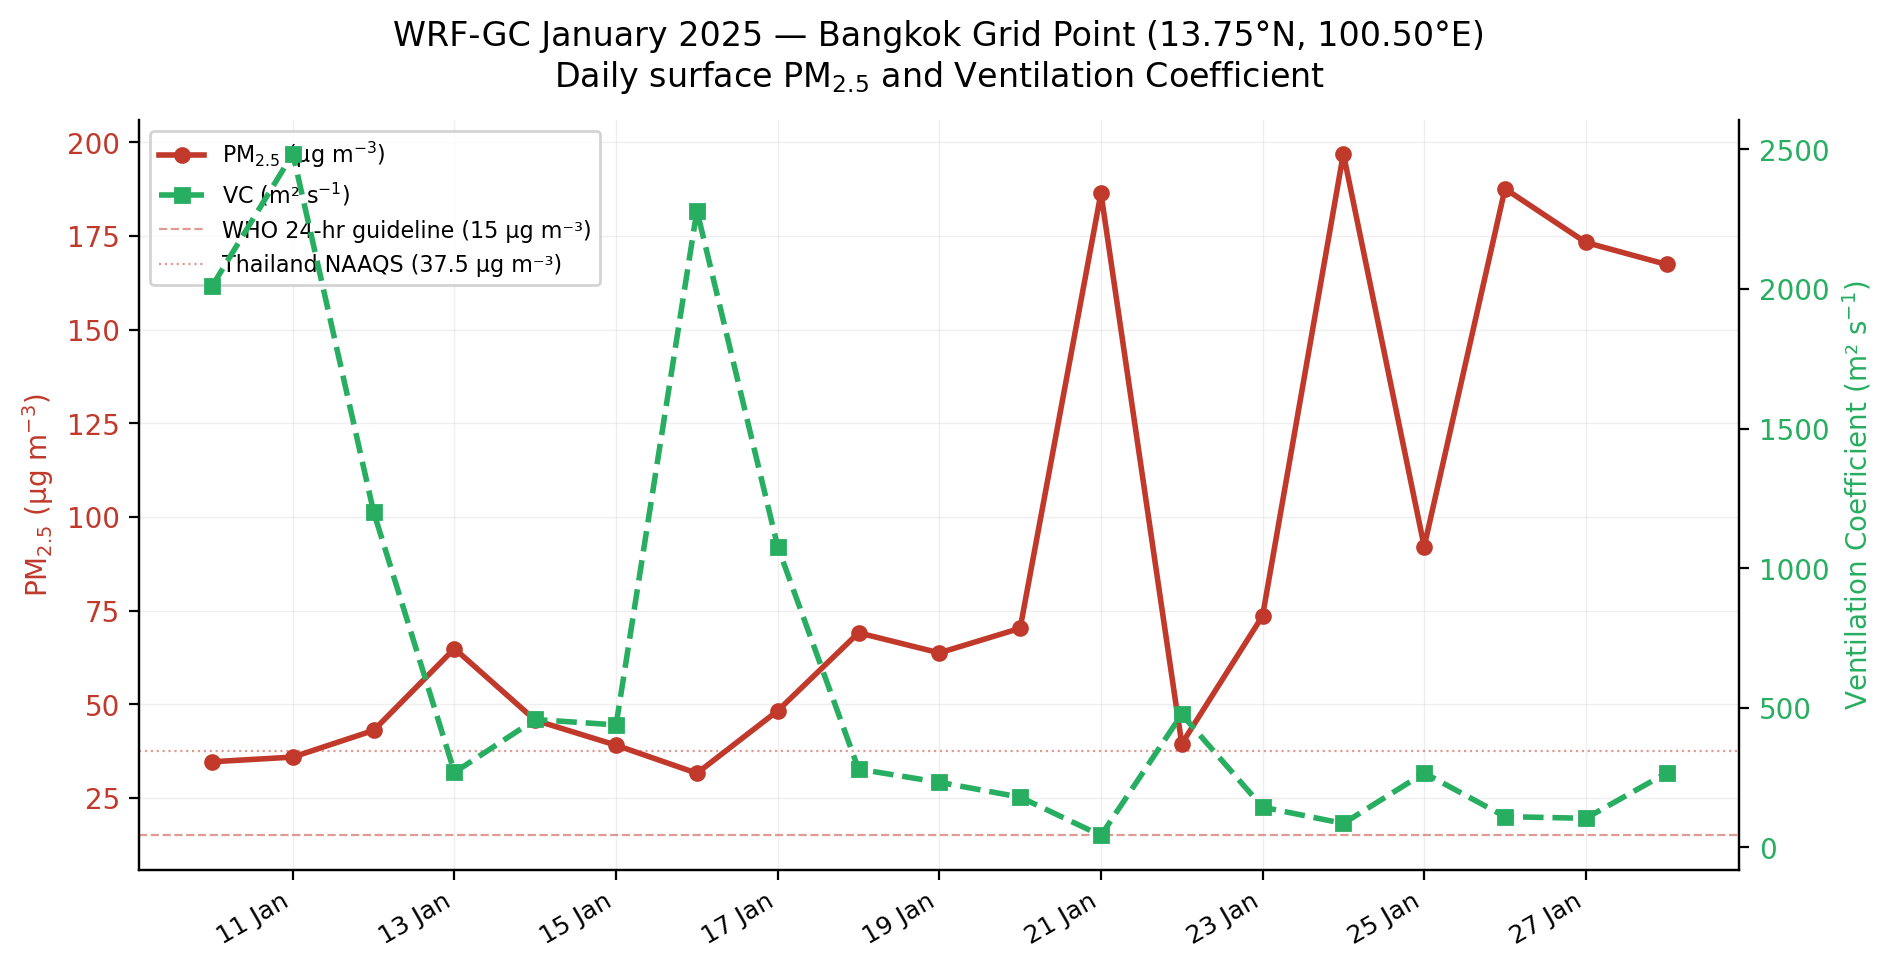
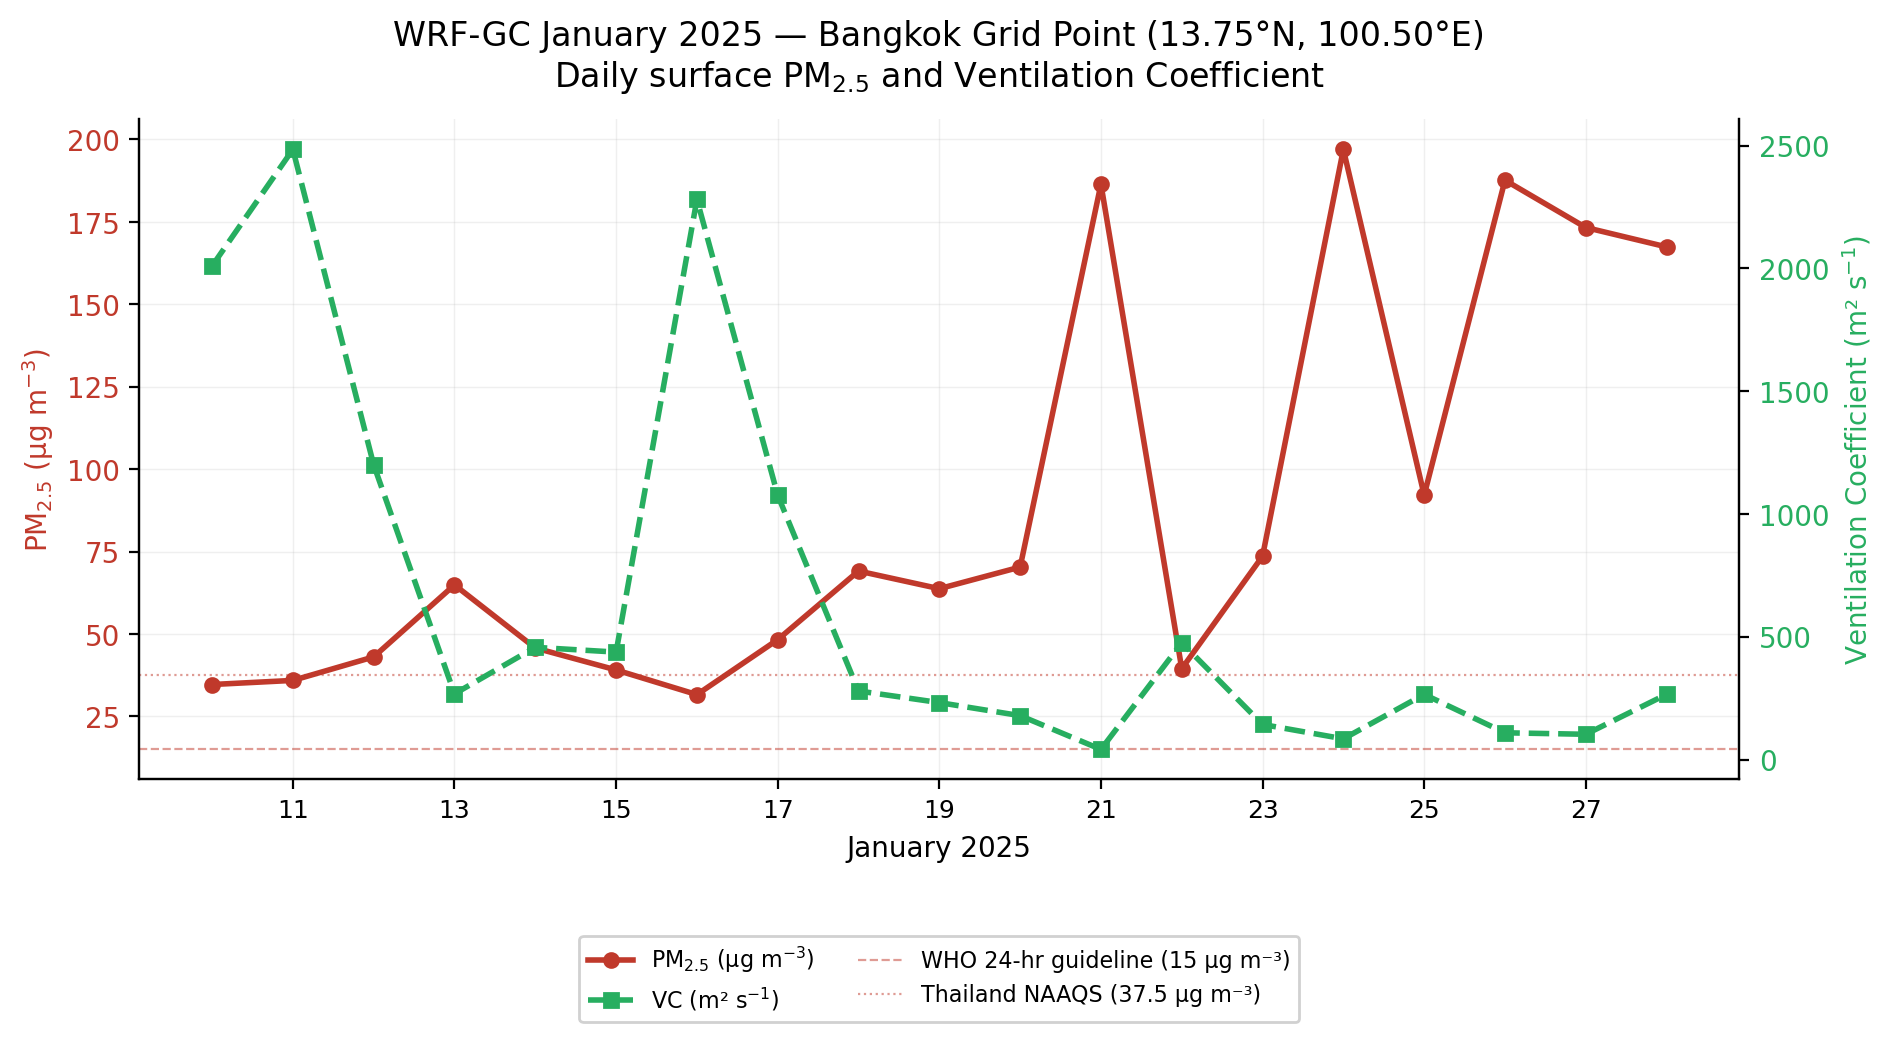
fig_bangkok_pm25_vc: move legend below plot, clean x-axis to day numbers only

diff --git a/analysis/scripts/fig_bangkok_pm25_vc.py b/analysis/scripts/fig_bangkok_pm25_vc.py
@@ -19,7 +19,7 @@ from precompute import load_all
 
 def plot(d):
     fig, ax1 = plt.subplots(figsize=(10, 5))
-    fig.subplots_adjust(top=0.88, bottom=0.13, left=0.10, right=0.90)
+    fig.subplots_adjust(top=0.88, bottom=0.22, left=0.10, right=0.90)
     fig.suptitle(
         'WRF-GC January 2025 — Bangkok Grid Point (13.75°N, 100.50°E)\n'
         'Daily surface PM$_{2.5}$ and Ventilation Coefficient',
@@ -49,16 +49,18 @@ def plot(d):
     ax1.spines['top'].set_visible(False)
     ax2.spines['top'].set_visible(False)
 
-    ax1.xaxis.set_major_formatter(mdates.DateFormatter('%d %b'))
+    ax1.xaxis.set_major_formatter(mdates.DateFormatter('%d'))
     ax1.xaxis.set_major_locator(mdates.DayLocator(interval=2))
-    plt.setp(ax1.xaxis.get_majorticklabels(), rotation=30, ha='right', fontsize=9)
+    plt.setp(ax1.xaxis.get_majorticklabels(), rotation=0, ha='center', fontsize=9)
+    ax1.set_xlabel('January 2025', fontsize=10)
 
     lines = [l1, l2,
              plt.Line2D([0], [0], color='#c0392b', lw=0.8, ls='--', alpha=0.5),
              plt.Line2D([0], [0], color='#c0392b', lw=0.8, ls=':',  alpha=0.5)]
     labels = ['PM$_{2.5}$ (µg m$^{-3}$)', 'VC (m² s$^{-1}$)',
               'WHO 24-hr guideline (15 µg m⁻³)', 'Thailand NAAQS (37.5 µg m⁻³)']
-    ax1.legend(lines, labels, fontsize=8, loc='upper left', framealpha=0.85)
+    ax1.legend(lines, labels, fontsize=8, ncol=2, framealpha=0.90,
+               loc='upper center', bbox_to_anchor=(0.5, -0.22))
 
     savefig(fig, 'fig_bangkok_pm25_vc.png')
 